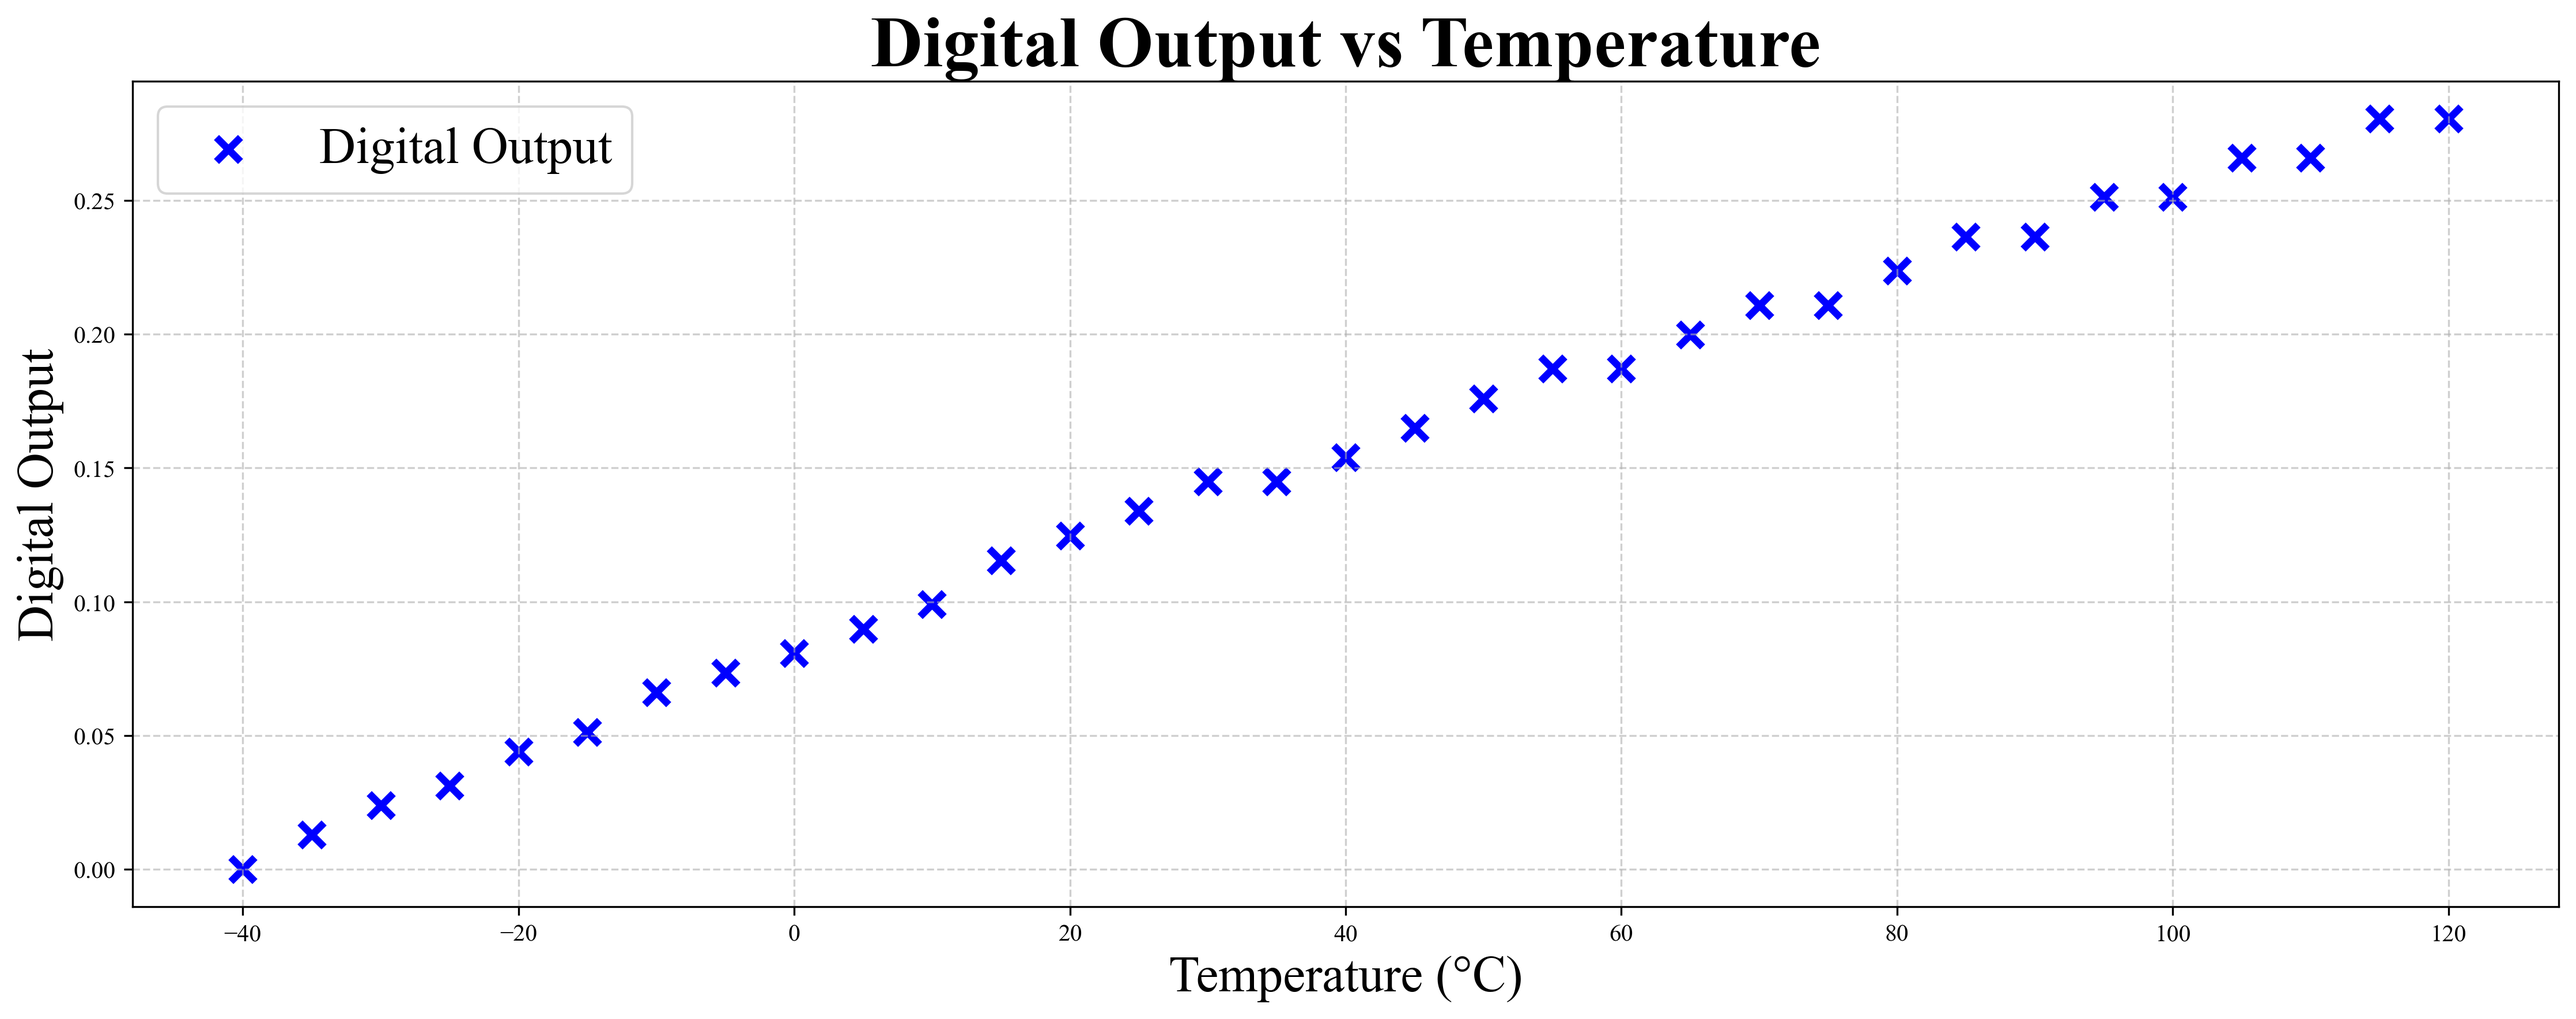
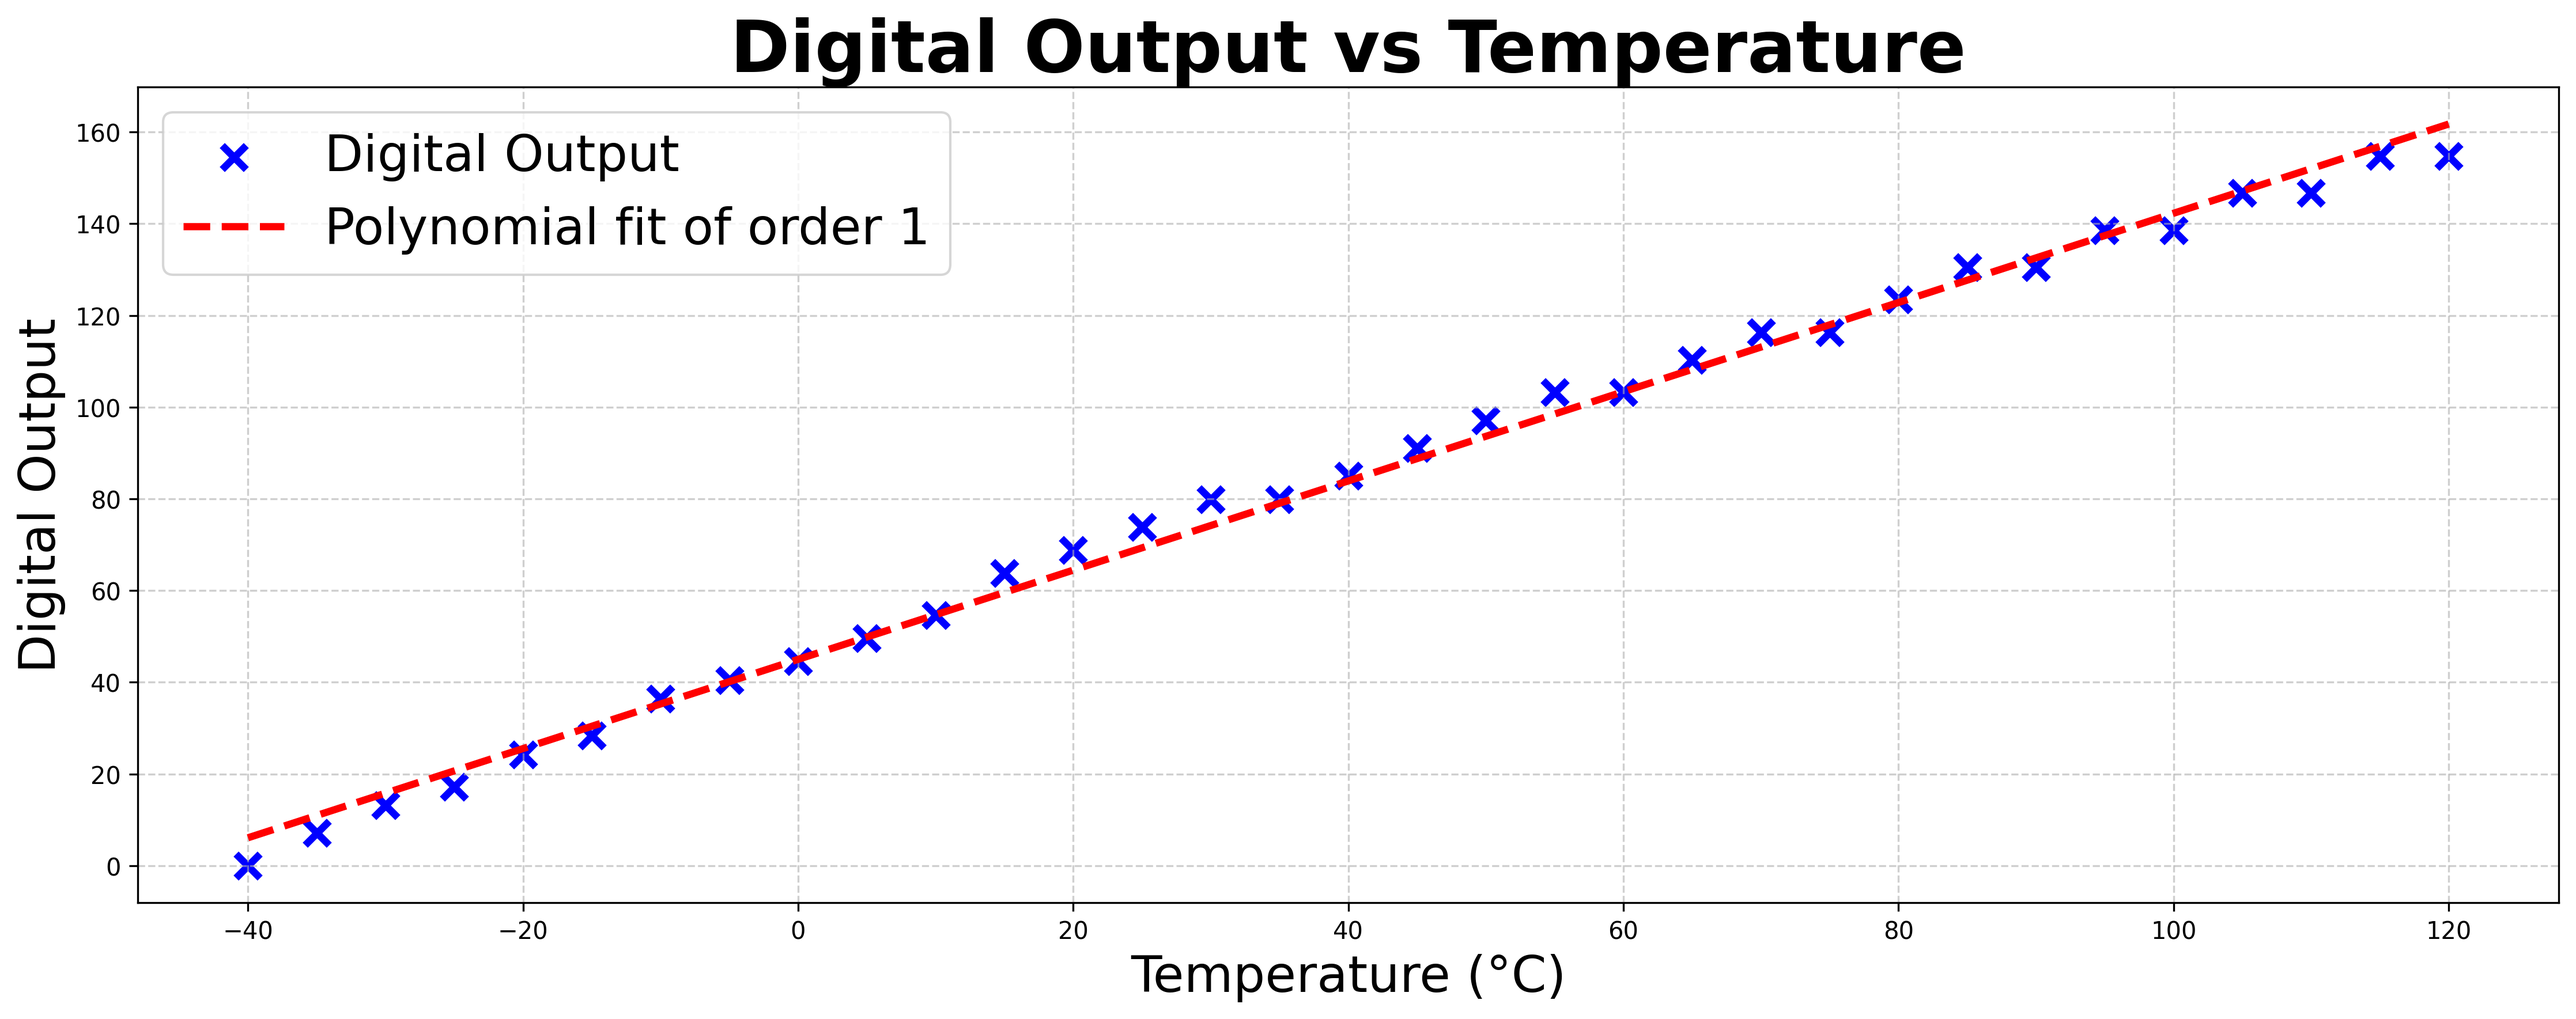
Automatischer Commit: 17:38:43

diff --git a/sim/JNW_GR05/tran.py b/sim/JNW_GR05/tran.py
@@ -26,6 +26,7 @@ def analog_scaling(name="output_tran/tran_SchGtKttTtVt"):
                 temp = int(key.split('_')[-1])
                 v_ref.append(value)
 
+    
     # Polynomial fitting
     poly_coeffs = np.polyfit(temperatures, i_out, 2)  # Quadratic fit
     poly_eq = np.poly1d(poly_coeffs)
@@ -101,19 +102,23 @@ def digital_output(name="output_tran/tran_SchGtKttTtVt"):
             temperatures.append(temp)
             digital_outputs.append(value)
 
-    """
+    
     # sort the data based on the temperature
     sorted_indices = np.argsort(temperatures)
     temperatures = np.array(temperatures)[sorted_indices]
     digital_outputs = np.array(digital_outputs)[sorted_indices]
-    """
+    
+    # Manual correction due to (somehow) decimal values
+    max_desired = 258 # 8 bits
+    max_observed = 0.4675
+
+    digital_outputs = digital_outputs * max_desired / max_observed
 
     # generate linear fit
-    order = 4
+    order = 1
     coeffs = np.polyfit(temperatures, digital_outputs, order)
     fit_eq = np.poly1d(coeffs)
     fit_str = ' + '.join([f'{coeff:.4e}x^{order-i}' for i, coeff in enumerate(coeffs)])
-    # Cr
 
     # Create scatter plot
     figsize = (15, 6)
@@ -124,7 +129,10 @@ def digital_output(name="output_tran/tran_SchGtKttTtVt"):
     plt.xlabel('Temperature (°C)', fontsize=0.7*fontsize)
     plt.ylabel('Digital Output', fontsize=0.7*fontsize)
     plt.title('Digital Output vs Temperature', fontsize=fontsize, fontweight='bold')
-    #plt.plot(temperatures, fit_eq(temperatures), color='red', linestyle='--', label=fit_str, linewidth=3)
+
+    # Debugging: Rewrite label for the fit
+    fit_str = f"Polynomial fit of order " + str(order)
+    plt.plot(temperatures, fit_eq(temperatures), color='red', linestyle='--', label=fit_str, linewidth=3)
     plt.legend(loc='upper left', fontsize=0.7*fontsize)
     plt.grid(True, linestyle='--', alpha=0.6)  # Add grid
     plt.xticks(fontsize=10)
